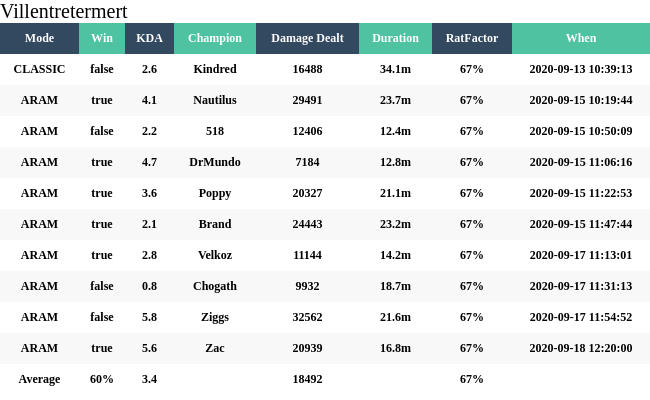
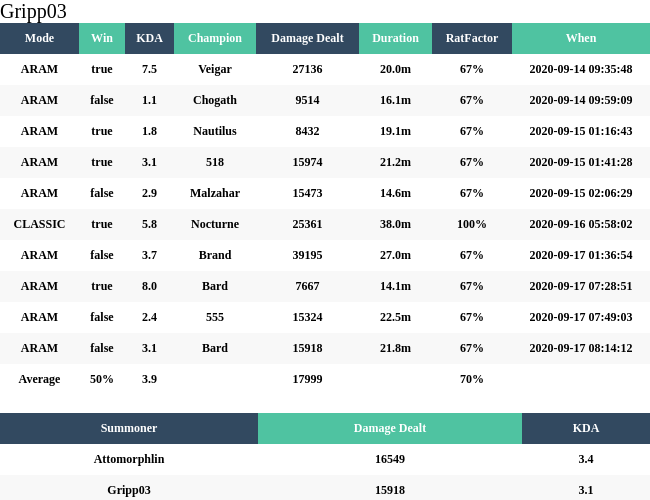
lastGame table added

diff --git a/src/leagueAsync.js b/src/leagueAsync.js
@@ -102,6 +102,7 @@ const generateStats = (matches, name, friendList) => {
     return new Promise((resolve, reject) => {
         try {
             var statArray = []
+            var lastGame = []
             matches.forEach(detailedMatch => {
                 //getting player participant id in every match by name
                 const participantId = detailedMatch.participantIdentities.filter((summoner) => {
@@ -122,9 +123,32 @@ const generateStats = (matches, name, friendList) => {
                     champion: detailedMatch.participants[participantId].championId,
                     totalDamageDealt: detailedMatch.participants[participantId].stats.totalDamageDealtToChampions,
                     ratFactor
-                    })  
+                    })
+                //check if it is the last game
+                if (detailedMatch.gameId === matches[0].gameId) {
+                    friendList.push(name)
+                    for (i in friendList) {
+                        const isPlayed = detailedMatch.participantIdentities.filter((summoner) => {
+                            return summoner.player.summonerName == friendList[i]}).length
+                        if (isPlayed) {
+                            const participantId = detailedMatch.participantIdentities.filter((summoner) => {
+                                return summoner.player.summonerName == friendList[i]
+                            })[0].participantId - 1 
+    
+                            lastGame.push({
+                                summonerName: friendList[i],
+                                totalDamageDealt: detailedMatch.participants[participantId].stats.totalDamageDealtToChampions, 
+                                kda: ((detailedMatch.participants[participantId].stats.kills + detailedMatch.participants[participantId].stats.assists)/
+                                detailedMatch.participants[participantId].stats.deaths).toFixed(1)
+    
+                            })
+                        }
+                        
+                    }
+                    friendList.pop()
+                }
             })
-            resolve(statArray)
+            resolve([statArray, lastGame])
         } catch(e) {
             reject("Unable to generate stats " + e)
         }
@@ -136,13 +160,13 @@ const getStat = async (name, friendList) => {
     const summonerName = await getSummonerByName(name)
     const lastMatches = await getLastMatches(summonerName.accountId)
     const detailedMatches = await getDetailedMatchDetails(lastMatches)
-    const stats = await generateStats(detailedMatches, name, friendList)
+    const [stats, lastGame] = await generateStats(detailedMatches, name, friendList)
     const statsWithChampions = await getChampionNamesFromArray(stats)
     const sortedStatsWithChampions = statsWithChampions.sort((a,b) => {
         return moment(a.startedAt) - moment(b.startedAt)
     })
 
-    return sortedStatsWithChampions
+    return [sortedStatsWithChampions, lastGame]
 }
 
 module.exports = getStat 

diff --git a/src/createTemplate.js b/src/createTemplate.js
@@ -3,22 +3,29 @@ const fs = require('fs')
 const nodeHtmlToImage = require('node-html-to-image')
 
 
-function generateImage (gameArray, summonerName, avgKda, winRate, avgRatFactor, avgDamage) {
+function generateImage (gameArray, summonerName, avgKda, winRate, avgRatFactor, avgDamage, lastGame) {
     console.log("Sеarting generationg img")
     return new Promise((resolve, reject) => {
         try {
-            const tableTemplate = fs.readFileSync('views/table.def').toString();
+            const tableTemplate = fs.readFileSync('views/stat.def').toString();
             const renderTable = dot.template(tableTemplate)
             var table = ''
             for (i in gameArray) {
                 table += renderTable(gameArray[i])
             }
 
+
+            const lastGameTemplate = fs.readFileSync('views/last-game.def').toString();
+            const renderLastGame = dot.template(lastGameTemplate)
+            var lastGameTable = ''
+            for (i in lastGame) {
+                lastGameTable += renderLastGame(lastGame[i])
+            }
+
             const template = fs.readFileSync('views/template.def').toString();
             const result = dot.template(template)
-            const renderedString = result(({summonerName, avgKda, winRate, avgRatFactor, avgDamage, table}))
+            const renderedString = result(({summonerName, avgKda, winRate, avgRatFactor, avgDamage, table, lastGameTable}))
 
-            // fs.writeFileSync('views/rendered.html', renderedString)
 
             nodeHtmlToImage({
                 output: './image.png',

diff --git a/src/app.js b/src/app.js
@@ -1,6 +1,6 @@
 const Discord = require('discord.js')
-const getStat = require('./league_async')
-const generateImage = require('./templating')
+const getStat = require('./leagueAsync')
+const generateImage = require('./createTemplate')
 DISCORD_TOKEN = process.env.DISCORD_TOKEN
 
 const client = new Discord.Client();
@@ -17,7 +17,6 @@ const getAvgs = (array) => {
   var avgRatFactor = 0
   var avgDamage = 0
   array.forEach(i => {
-    
     if (isNaN(i.kda)) i.kda = 0
     avgKda+=parseFloat(i.kda)
     avgRatFactor+=parseFloat(i.ratFactor)
@@ -38,11 +37,11 @@ client.on('message', async (message) => {
 
 
   try {
-    const stats = await getStat(name, friendListFiltered)
+    const [stats, lastGame] = await getStat(name, friendListFiltered)
     const [avgKda, winRate, avgRatFactor, avgDamage] = getAvgs(stats)
-    console.log(avgRatFactor, avgDamage, typeof(avgDamage), typeof(avgRatFactor))
-    await generateImage(stats, name, avgKda, winRate, avgRatFactor, avgDamage)
-    message.reply("here is stat", { files: ['image.png']})
+    console.log(lastGame)
+    await generateImage(stats, name, avgKda, winRate, avgRatFactor, avgDamage, lastGame)
+    message.reply("here is stat", { files: ['image.png'] })
   } catch (e) {
     message.reply("something went wrong with checking " + name + "\n" + e)
   }

diff --git a/research/check_3.js b/research/check_3.js
@@ -17,3 +17,14 @@ array = {
 
 const ratFactor = 100 - array.arr.filter((el) => friendList.includes(el.name)).length * (100/friendList.length)
 console.log(ratFactor)
+console.log(friendList[friendList.length-1])
+
+const check = () => {
+    return [ ['somethiong', 'aga'], ['onemore', 'haha'] ]
+}
+
+const [wow, sus] = check()
+console.log(wow)
+
+const fullList = friendList.push('name')
+console.log(fullList, friendList)
